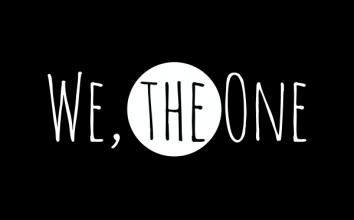
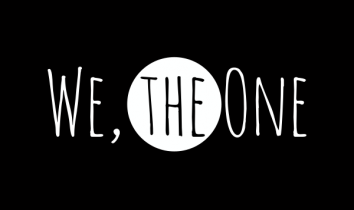
fix wrong image for wto

diff --git a/projects/wetheone.md b/projects/wetheone.md
@@ -16,7 +16,7 @@ labels:
 summary: A short 2D bullet hell indie game made for Global Game Jam 2019
 ---
 
-<img class="ui huge centered bordered image" src="../images/runbarush/runbarush_menu.png">
+<img class="ui huge centered bordered image" src="../images/wetheone/wetheone_Title.png">
 
 <div style="display: flex; justify-content: center" class="ui large labels">
   <div class="ui basic label">Game Design</div>
